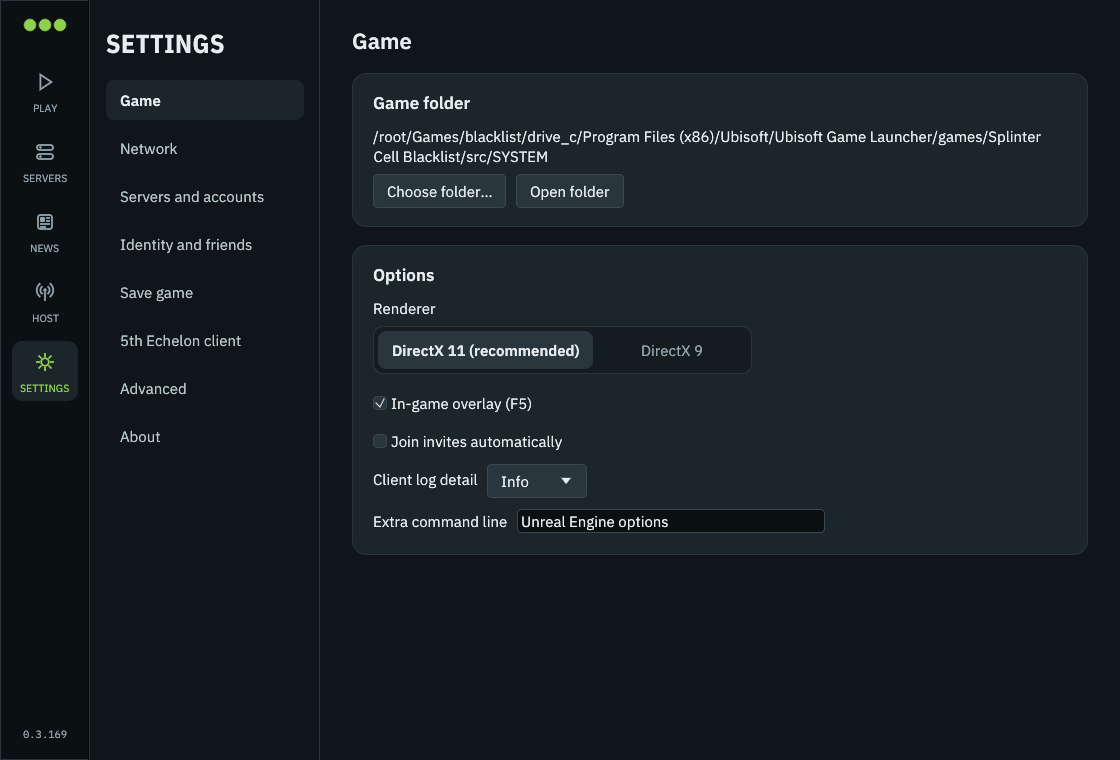
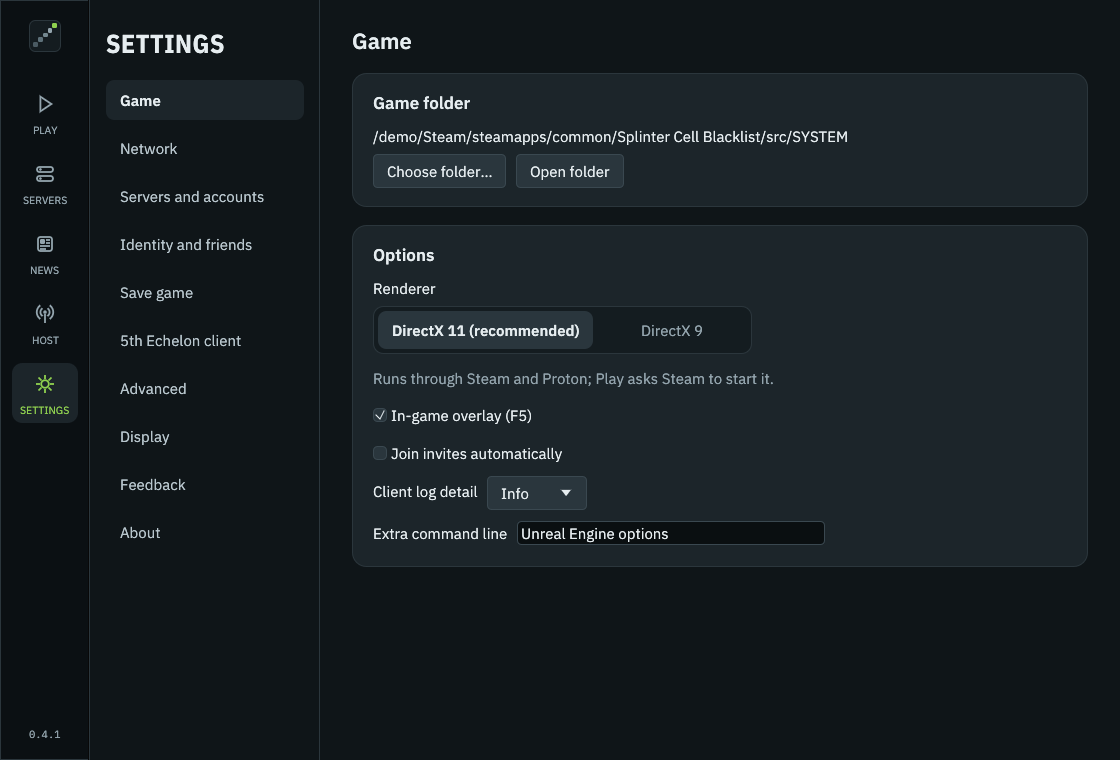
The Echelon formation in the launcher and the admin UI; screenshots retaken
The launcher's side menu and setup, and the admin UI's header, sign-in and loading
screen, showed three night-vision lenses; they now show the logo's formation (the
loading screen lights its units in turn, unless motion is reduced). The README
screenshots show it, at 0.4.1.

diff --git a/coordinator/admin-ui/src/styles.css b/coordinator/admin-ui/src/styles.css
@@ -95,15 +95,24 @@ code, .mono { font-family: var(--mono); font-size: 12.5px; }
 
 /* Boot */
 .boot { display: grid; place-items: center; height: 100vh; }
-.goggles { display: flex; gap: 10px; }
-.goggles i {
-  width: 12px; height: 12px; border-radius: 50%;
-  background: var(--accent);
-  box-shadow: 0 0 14px var(--accent);
-  animation: pulse 1.4s ease-in-out infinite;
+/* The mark (docs/logo.svg): five units in an echelon formation, the fifth in front. */
+.mark {
+  position: relative; display: inline-block; flex-shrink: 0;
+  width: 64px; height: 64px; box-sizing: border-box;
+  border-radius: 18%; background: #141c20; border: 1px solid #2b363c;
 }
-.goggles i:nth-child(2) { animation-delay: 0.2s; }
-.goggles i:nth-child(3) { animation-delay: 0.4s; }
+.mark i { position: absolute; width: 15.2%; height: 15.2%; border-radius: 2px; }
+.mark i:nth-child(1) { left: 13%; top: 69.6%; background: #4a5a62; }
+.mark i:nth-child(2) { left: 28.3%; top: 54.3%; background: #5d7079; }
+.mark i:nth-child(3) { left: 43.5%; top: 39.1%; background: #73878f; }
+.mark i:nth-child(4) { left: 58.7%; top: 23.9%; background: #93a4ad; }
+.mark i:nth-child(5) { left: 73.9%; top: 8.7%; background: var(--accent); }
+.boot .mark i { animation: pulse 1.4s ease-in-out infinite; }
+.boot .mark i:nth-child(2) { animation-delay: 0.15s; }
+.boot .mark i:nth-child(3) { animation-delay: 0.3s; }
+.boot .mark i:nth-child(4) { animation-delay: 0.45s; }
+.boot .mark i:nth-child(5) { animation-delay: 0.6s; }
+@media (prefers-reduced-motion: reduce) { .boot .mark i { animation: none; } }
 @keyframes pulse { 0%, 100% { opacity: 0.25; } 50% { opacity: 1; } }
 
 /* Shell */
@@ -116,8 +125,7 @@ code, .mono { font-family: var(--mono); font-size: 12.5px; }
   position: sticky; top: 0; height: 100vh;
 }
 .brand { display: flex; align-items: center; gap: 10px; padding: 2px 8px 8px; }
-.brand .goggles { gap: 4px; }
-.brand .goggles i { width: 7px; height: 7px; animation: none; opacity: 0.95; box-shadow: 0 0 8px var(--accent); }
+.brand .mark { width: 30px; height: 30px; }
 .brand b { font: 700 15px var(--display); letter-spacing: 0.05em; text-transform: uppercase; }
 .brand div span { display: block; font-size: 11px; color: var(--muted); }
 .nav { display: flex; flex-direction: column; gap: 2px; }
@@ -275,7 +283,7 @@ input.code { font: 600 22px var(--mono); letter-spacing: 0.3em; text-align: cent
 .gate .card { width: 100%; max-width: 400px; background: var(--panel); border: 1px solid var(--line); border-radius: 14px; padding: 28px; box-shadow: var(--shadow); display: flex; flex-direction: column; gap: 18px; }
 .gate .card.wide { max-width: 520px; }
 .gate .brand { padding: 0; }
-.gate .brand .goggles i { width: 9px; height: 9px; }
+.gate .brand .mark { width: 40px; height: 40px; }
 .divider { display: flex; align-items: center; gap: 10px; color: var(--faint); font-size: 12px; }
 .divider::before, .divider::after { content: ""; flex: 1; height: 1px; background: var(--line); }
 .err { color: var(--bad); font-size: 13px; }

diff --git a/coordinator/admin-ui/src/App.vue b/coordinator/admin-ui/src/App.vue
@@ -1,5 +1,5 @@
 <template>
-  <div v-if="session.view === 'loading'" class="boot"><span class="goggles"><i></i><i></i><i></i></span></div>
+  <div v-if="session.view === 'loading'" class="boot"><span class="mark"><i></i><i></i><i></i><i></i><i></i></span></div>
   <Login v-else-if="session.view === 'login'" />
   <SecondFactor v-else-if="session.view === 'password'" />
   <Setup v-else-if="session.view === 'setup'" />

diff --git a/coordinator/admin-ui/index.html b/coordinator/admin-ui/index.html
@@ -9,7 +9,7 @@
 <link rel="icon" href="/icon.svg" type="image/svg+xml">
 </head>
 <body>
-<div id="app"><div class="boot"><span class="goggles"><i></i><i></i><i></i></span></div></div>
+<div id="app"><div class="boot"><span class="mark"><i></i><i></i><i></i><i></i><i></i></span></div></div>
 <script type="module" src="/src/main.js"></script>
 </body>
 </html>

diff --git a/coordinator/admin-ui/src/components/Brand.vue b/coordinator/admin-ui/src/components/Brand.vue
@@ -1,6 +1,6 @@
 <template>
   <div class="brand">
-    <span class="goggles"><i></i><i></i><i></i></span>
+    <span class="mark"><i></i><i></i><i></i><i></i><i></i></span>
     <div><b>SCBL Network</b><span>{{ sub }}</span></div>
   </div>
 </template>

diff --git a/launcher/src/theme.rs b/launcher/src/theme.rs
@@ -192,13 +192,30 @@ pub fn secondary(text: &str) -> egui::Button<'static> {
     egui::Button::new(text.to_string()).corner_radius(10).min_size(egui::vec2(0.0, 38.0))
 }
 
-/// The three night-vision lenses, the launcher's mark.
-pub fn mark(ui: &mut egui::Ui, height: f32) {
-    let r = height / 2.0;
-    let (rect, _) = ui.allocate_exact_size(egui::vec2(height * 3.0 + r, height), egui::Sense::hover());
-    for i in 0..3 {
-        let c = egui::pos2(rect.left() + r + i as f32 * (height + r / 2.0), rect.center().y);
-        ui.painter().circle_filled(c, r, ACCENT);
+/// The launcher's mark (docs/logo.svg): five units in an echelon formation, the fifth
+/// out in front, on a tile `size` points square.
+pub fn mark(ui: &mut egui::Ui, size: f32) {
+    let (rect, _) = ui.allocate_exact_size(egui::vec2(size, size), egui::Sense::hover());
+    let at = |x: f32, y: f32| rect.min + egui::vec2(x, y) * (size / 100.0);
+    let tile = egui::Rect::from_min_max(at(4.0, 4.0), at(96.0, 96.0));
+    let painter = ui.painter();
+    painter.rect(
+        tile,
+        size * 0.18,
+        Color32::from_rgb(0x14, 0x1c, 0x20),
+        Stroke::new((size / 50.0).max(1.0), LINE),
+        egui::StrokeKind::Inside,
+    );
+    let shades = [
+        Color32::from_rgb(0x4a, 0x5a, 0x62),
+        Color32::from_rgb(0x5d, 0x70, 0x79),
+        Color32::from_rgb(0x73, 0x87, 0x8f),
+        MUTED,
+        ACCENT,
+    ];
+    for (i, shade) in shades.into_iter().enumerate() {
+        let (x, y) = (16.0 + 14.0 * i as f32, 68.0 - 14.0 * i as f32);
+        painter.rect_filled(egui::Rect::from_min_max(at(x, y), at(x + 14.0, y + 14.0)), size * 0.02, shade);
     }
 }
 

diff --git a/launcher/src/play.rs b/launcher/src/play.rs
@@ -375,7 +375,7 @@ fn wizard(ui: &mut egui::Ui, step: usize, body: impl FnOnce(&mut egui::Ui)) {
                                 ui.set_min_height(470.0);
                             }
                             ui.vertical(|ui| {
-                                theme::mark(ui, 12.0);
+                                theme::mark(ui, 34.0);
                                 ui.add_space(14.0);
                                 ui.label(theme::display("Get online in a minute", 28.0));
                                 ui.add_space(6.0);

diff --git a/launcher/src/app.rs b/launcher/src/app.rs
@@ -417,7 +417,7 @@ impl App {
             )
             .show(ctx, |ui| {
                 ui.vertical_centered(|ui| {
-                    theme::mark(ui, 12.0);
+                    theme::mark(ui, 34.0);
                     ui.add_space(22.0);
                     for (view, icon, label) in [
                         (View::Play, theme::Icon::Play, "Play"),

diff --git a/LICENSE.md b/LICENSE.md
@@ -33,6 +33,7 @@ Everything in these files and folders is under MIT:
 | `scripts/install-server.sh`, `harden-host.sh`, `sign-release.sh`, `release.sh`, `bots.sh`, `load-test.sh`, `proxy-test.sh`, `federation-test.sh`, `check-clean.sh`, `install-hooks.sh` | The Linux installer, release signing, test runners and repository checks |
 | `docs/deploying.md`, `operations.md`, `community-servers.md`, `friends.md`, `server-settings.md`, `reverse-proxy.md`, `reverse-proxy/`, `load-testing.md`, `roadmap.md`, `releases/`, `research/nat-traversal.md`, `research/cross-region.md` | This project's documentation |
 | `docs/logo.svg`, `docs/logo.png`, `launcher/logo.ico`, `coordinator/admin-ui/public/icon.svg` | 5th Echelon Enhanced's logo: five units in an echelon formation |
+| `docs/screenshots/` | Screenshots of the launcher |
 | `LICENSE.md` | This file |
 | `SECURITY.md` | How to report security problems |
 
@@ -57,7 +58,6 @@ The same applies to this project's follow-up changes to code merged from pull re
 | `hooks/fonts/*.ttf` | IBM Plex Sans, Sans Condensed and Mono, under the SIL Open Font License 1.1 (`hooks/fonts/OFL-*.txt`) |
 | `coordinator/admin-ui/src/assets/fonts/*.ttf` | the same IBM Plex fonts, for the admin UI, under the SIL Open Font License 1.1 (`coordinator/admin-ui/public/fonts-license.txt`) |
 | `docs/demo.webm`, `docs/demo_thumb.png`, `docs/overlay_*.png`, `launcher/old_logo.ico` | Upstream 5th Echelon (upstream's logo, which this project used until 0.4.1, is in the git history) |
-| `docs/screenshots/` | This project's screenshots, but they show the upstream logo |
 | `setup/data/base_savegame.xml` | Upstream 5th Echelon's generated save |
 | `dedicated_server/src/news_upstream.json` | Upstream 5th Echelon's news (`data/news.json`), kept to recognise it |
 | `docs/research/`, except `nat-traversal.md` and `cross-region.md` | Upstream's research notes |
